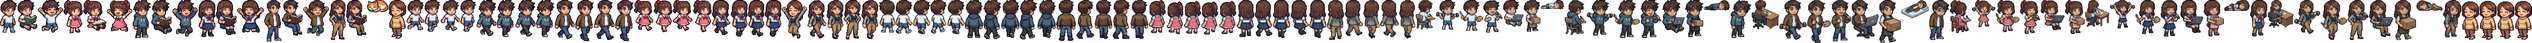
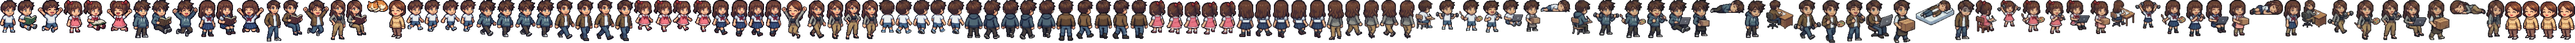
v0.5.8: 누운 모습 크기 보정, 외출 복귀 시 앞치마 포즈 제거
Claude-Session: https://claude.ai/code/session_01VYXQzVYR4chXqJ2j5munDD

diff --git a/src/components/IsometricRoomCanvas.tsx b/src/components/IsometricRoomCanvas.tsx
@@ -196,7 +196,8 @@ export function IsometricRoomCanvas({
         steps.push({ kind: 'fade', to: 0, ms: 350 });
         steps.push({ kind: 'wait', ms: 600, pose: 'idle', onStart: () => setBubble(null) });
         steps.push({ kind: 'fade', to: 1, ms: 350 });
-        steps.push({ kind: 'wait', ms: 1300, pose: w.outcome === 'GREAT' ? 'cheer' : w.outcome === 'FAIL' ? 'tired' : w.actionType === 'PART_TIME' ? 'work' : 'idle', onStart: () => {
+        // 밖에서 돌아올 때는 평소 모습 (앞치마 알바 포즈는 집 안에서 하는 일에만)
+        steps.push({ kind: 'wait', ms: 1300, pose: w.outcome === 'GREAT' ? 'cheer' : w.outcome === 'FAIL' ? 'tired' : 'idle', onStart: () => {
           haloRef.current = HALO[w.outcome];
           spawnPopups(w.popups.length ? w.popups : [`${w.goldDelta > 0 ? '+' : ''}${w.goldDelta}G`]);
         } });

diff --git a/src/components/TitleScreen.tsx b/src/components/TitleScreen.tsx
@@ -59,7 +59,7 @@ export function TitleScreen({ onStart }: { onStart: () => void }) {
           <PixelButton color="bg-sky" onClick={() => setMode('book')}>
             👑 엔딩 도감 ({unlockedEndings.length}/{ENDINGS.length})
           </PixelButton>
-          <p className="mt-2 text-[10px] text-white/60">v0.5.7 · 뒷모습 보폭·크기 수정</p>
+          <p className="mt-2 text-[10px] text-white/60">v0.5.8 · 수면 크기·외출 복귀 수정</p>
         </div>
       )}
 

diff --git a/scripts/build-sprites.py b/scripts/build-sprites.py
@@ -362,7 +362,13 @@ for g, path in POSE_SHEETS.items():
         blk = float(np.median([fit_cut(img_p, named[f'{st}_{g}_{k}'], target_h)[1] for k in ('draw', 'music', 'tired')]))
         for k in POSE_COLS:
             name = f'{st}_{g}_{k}'
-            if name not in POSE_EXCLUDE:
+            if name in POSE_EXCLUDE:
+                continue
+            if k == 'sleep':
+                # 누운 그림은 Gemini가 단계마다 크기를 제각각 그림 → 누운 길이(가로) = 서 있을 때 키의 90%
+                spr = cut(img_p, named[name], blk)
+                sprites[name] = cut(img_p, named[name], blk * spr.shape[1] / (target_h * 0.9))
+            else:
                 sprites[name] = cut(img_p, named[name], blk)
 
 # 손그림 걷기가 없는 캐릭터(딸, 부모님)는 서기 프레임에서 생성

diff --git a/CHANGELOG.md b/CHANGELOG.md
@@ -1,5 +1,15 @@
 # Changelog
 
+## v0.5.8 — 누운 모습 크기, 외출 복귀 모습 수정
+
+### 수정
+- 유년기 아들이 침대에서 쉴 때 너무 작게 보이던 문제
+  - Gemini가 잠자기 그림을 단계마다 제각각 크기로 그림 (유년기 아들 46px로 침대보다 훨씬 작음)
+  - 누운 그림은 '누운 길이 = 서 있을 때 키의 90%'로 따로 크기를 맞춤 (유년기 아들 46 → 59px)
+- 밖에 나갔다 돌아오면 갑자기 앞치마(알바 포즈) 차림으로 나타나던 문제
+  - 문으로 돌아올 때는 평소 모습, 대성공이면 만세, 실패면 지친 모습
+  - 앞치마 알바 포즈는 집 안에서 하는 일(집안일 돕기)에서만 사용
+
 ## v0.5.7 — 딸 유년기 뒷모습 걸음 다시 수정 + 앞/뒤 크기 일치
 
 ### 수정
